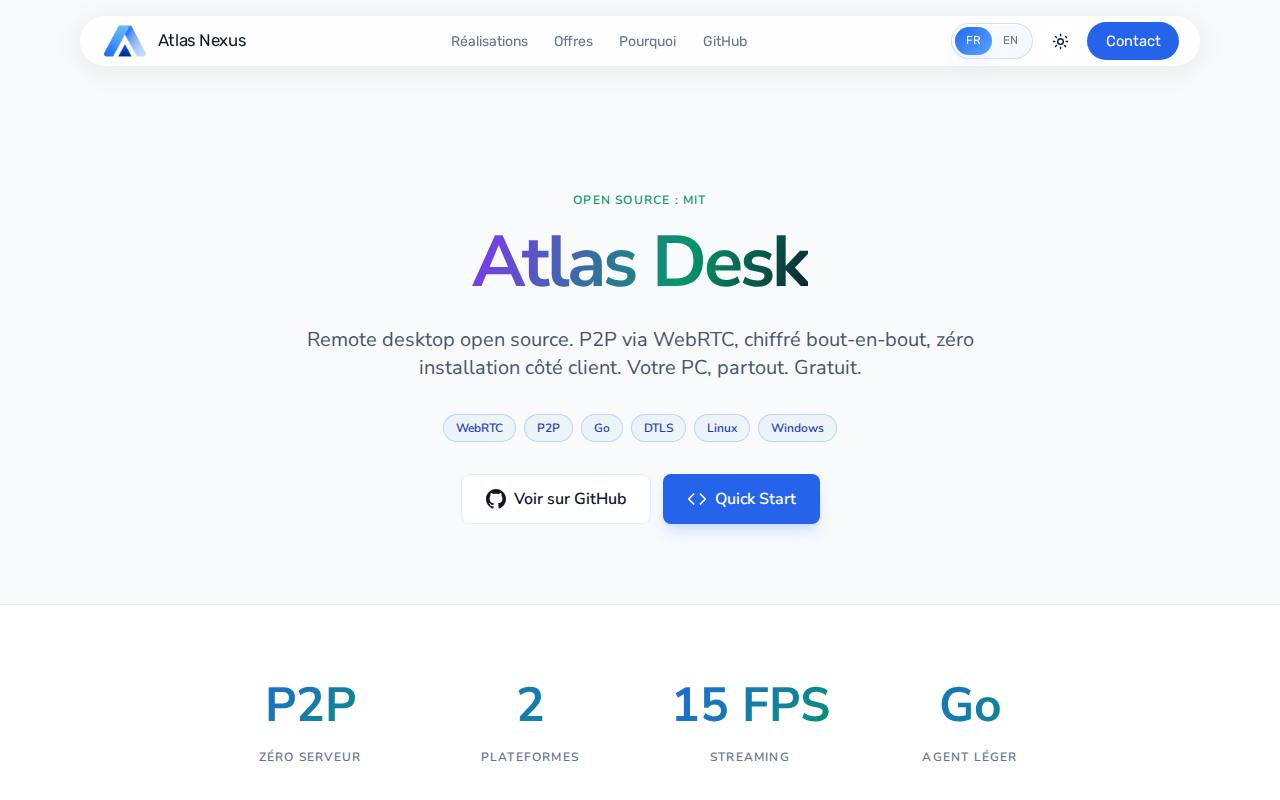
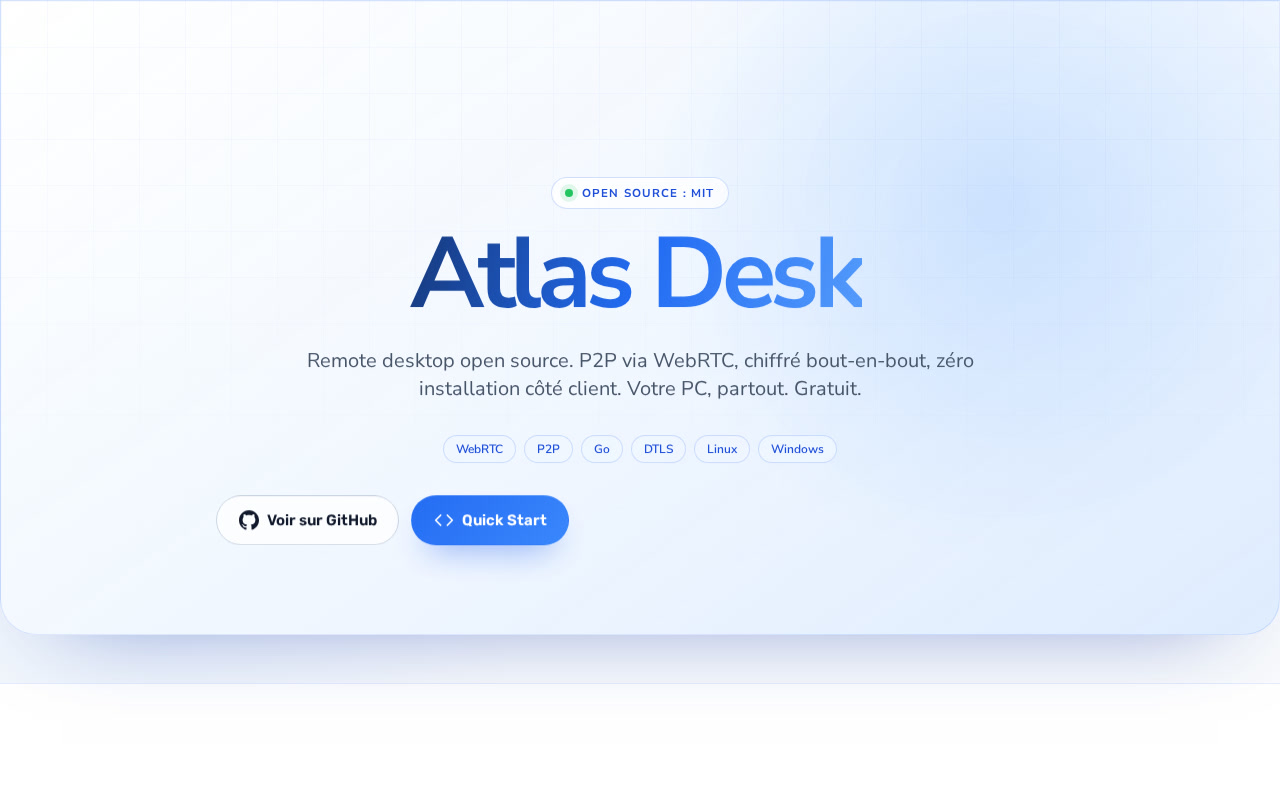
feat: refresh homepage product previews

diff --git a/index.html b/index.html
@@ -350,7 +350,7 @@
     <div class="work-grid">
       <a href="/markets-dashboard/" class="work-card reveal reveal-delay-2">
         <div class="work-frame"><i></i><i></i><i></i><span>markets-dashboard</span></div>
-        <div class="work-shot"><span class="work-tag"><i style="background:#2563EB"></i>Dashboard temps réel</span><img src="/assets/shots/shot-markets.jpg" alt="Aperçu : Markets Command Deck · Hawkeye" loading="lazy" decoding="async"></div>
+        <div class="work-shot"><span class="work-tag"><i style="background:#2563EB"></i>Dashboard temps réel</span><img src="/assets/shots/shot-markets.jpg?v=20260812-ui2" alt="Aperçu : Markets Command Deck · Hawkeye" loading="lazy" decoding="async"></div>
         <div class="work-meta"><div><h3>Markets Command Deck · Hawkeye</h3><p>Cockpit multi-actifs : 100 actifs scannés en direct, 6 marchés, scoring technique V4.</p></div><span class="work-arrow"><svg viewBox="0 0 24 24" fill="none" stroke="currentColor" stroke-width="2.5" stroke-linecap="round" stroke-linejoin="round"><path d="M17 8l4 4m0 0l-4 4m4-4H3"/></svg></span></div>
       </a>
       <a href="/framer-motion-ui/" class="work-card reveal reveal-delay-3">
@@ -360,7 +360,7 @@
       </a>
       <a href="/atlas-desk/" class="work-card reveal reveal-delay-4">
         <div class="work-frame"><i></i><i></i><i></i><span>atlas-desk</span></div>
-        <div class="work-shot"><span class="work-tag"><i style="background:#1D4ED8"></i>Open source</span><img src="/assets/shots/shot-desk.jpg" alt="Aperçu : Atlas Desk" loading="lazy" decoding="async"></div>
+        <div class="work-shot"><span class="work-tag"><i style="background:#1D4ED8"></i>Open source</span><img src="/assets/shots/shot-desk.jpg?v=20260812-ui2" alt="Aperçu : Atlas Desk" loading="lazy" decoding="async"></div>
         <div class="work-meta"><div><h3>Atlas Desk</h3><p>Bureau à distance P2P dans le navigateur : WebRTC, zéro installation côté client.</p></div><span class="work-arrow"><svg viewBox="0 0 24 24" fill="none" stroke="currentColor" stroke-width="2.5" stroke-linecap="round" stroke-linejoin="round"><path d="M17 8l4 4m0 0l-4 4m4-4H3"/></svg></span></div>
       </a>
     </div>

diff --git a/en/index.html b/en/index.html
@@ -350,7 +350,7 @@
     <div class="work-grid">
       <a href="/markets-dashboard/" class="work-card reveal reveal-delay-2">
         <div class="work-frame"><i></i><i></i><i></i><span>markets-dashboard</span></div>
-        <div class="work-shot"><span class="work-tag"><i style="background:#2563EB"></i>Real-time dashboard</span><img src="/assets/shots/shot-markets.jpg" alt="Preview: Markets Command Deck · Hawkeye" loading="lazy" decoding="async"></div>
+        <div class="work-shot"><span class="work-tag"><i style="background:#2563EB"></i>Real-time dashboard</span><img src="/assets/shots/shot-markets.jpg?v=20260812-ui2" alt="Preview: Markets Command Deck · Hawkeye" loading="lazy" decoding="async"></div>
         <div class="work-meta"><div><h3>Markets Command Deck · Hawkeye</h3><p>Multi-asset cockpit: 100 assets scanned live, 6 markets, V4 technical scoring.</p></div><span class="work-arrow"><svg viewBox="0 0 24 24" fill="none" stroke="currentColor" stroke-width="2.5" stroke-linecap="round" stroke-linejoin="round"><path d="M17 8l4 4m0 0l-4 4m4-4H3"/></svg></span></div>
       </a>
       <a href="/framer-motion-ui/" class="work-card reveal reveal-delay-3">
@@ -360,7 +360,7 @@
       </a>
       <a href="/atlas-desk/" class="work-card reveal reveal-delay-4">
         <div class="work-frame"><i></i><i></i><i></i><span>atlas-desk</span></div>
-        <div class="work-shot"><span class="work-tag"><i style="background:#1D4ED8"></i>Open source</span><img src="/assets/shots/shot-desk.jpg" alt="Preview: Atlas Desk" loading="lazy" decoding="async"></div>
+        <div class="work-shot"><span class="work-tag"><i style="background:#1D4ED8"></i>Open source</span><img src="/assets/shots/shot-desk.jpg?v=20260812-ui2" alt="Preview: Atlas Desk" loading="lazy" decoding="async"></div>
         <div class="work-meta"><div><h3>Atlas Desk</h3><p>P2P remote desktop in the browser: WebRTC, zero client-side installation.</p></div><span class="work-arrow"><svg viewBox="0 0 24 24" fill="none" stroke="currentColor" stroke-width="2.5" stroke-linecap="round" stroke-linejoin="round"><path d="M17 8l4 4m0 0l-4 4m4-4H3"/></svg></span></div>
       </a>
     </div>

diff --git a/tests/test_homepage_product_shots.py b/tests/test_homepage_product_shots.py
@@ -1,0 +1,29 @@
+import hashlib
+from pathlib import Path
+
+from PIL import Image
+
+
+ROOT = Path(__file__).resolve().parents[1]
+FR = (ROOT / "index.html").read_text(encoding="utf-8")
+EN = (ROOT / "en" / "index.html").read_text(encoding="utf-8")
+SHOTS = {
[2 lines of base64/hex data omitted]
+}
+
+
+def test_homepages_use_fresh_product_screenshots():
+    for filename, obsolete_hash in SHOTS.items():
+        expected_src = f'/assets/shots/{filename}?v=20260812-ui2'
+        assert expected_src in FR
+        assert expected_src in EN
+        path = ROOT / "assets" / "shots" / filename
+        assert hashlib.sha256(path.read_bytes()).hexdigest() != obsolete_hash
+
+
+def test_product_screenshots_are_crisp_card_native_images():
+    for filename in SHOTS:
+        with Image.open(ROOT / "assets" / "shots" / filename) as image:
+            assert image.size == (1280, 800)
+            assert image.mode == "RGB"
